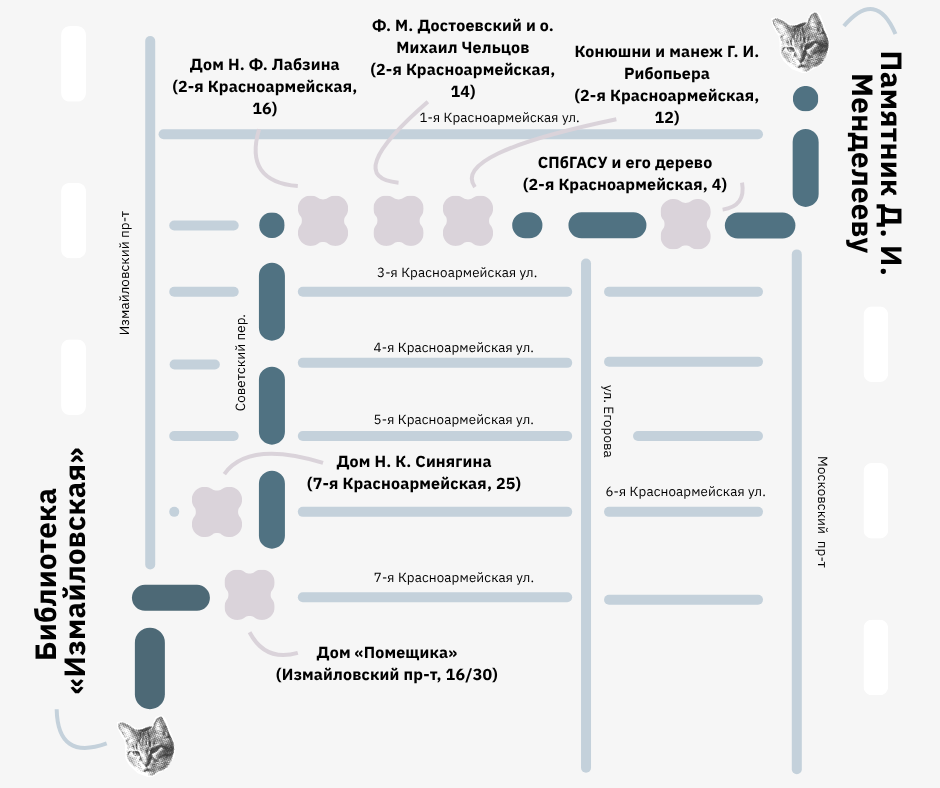
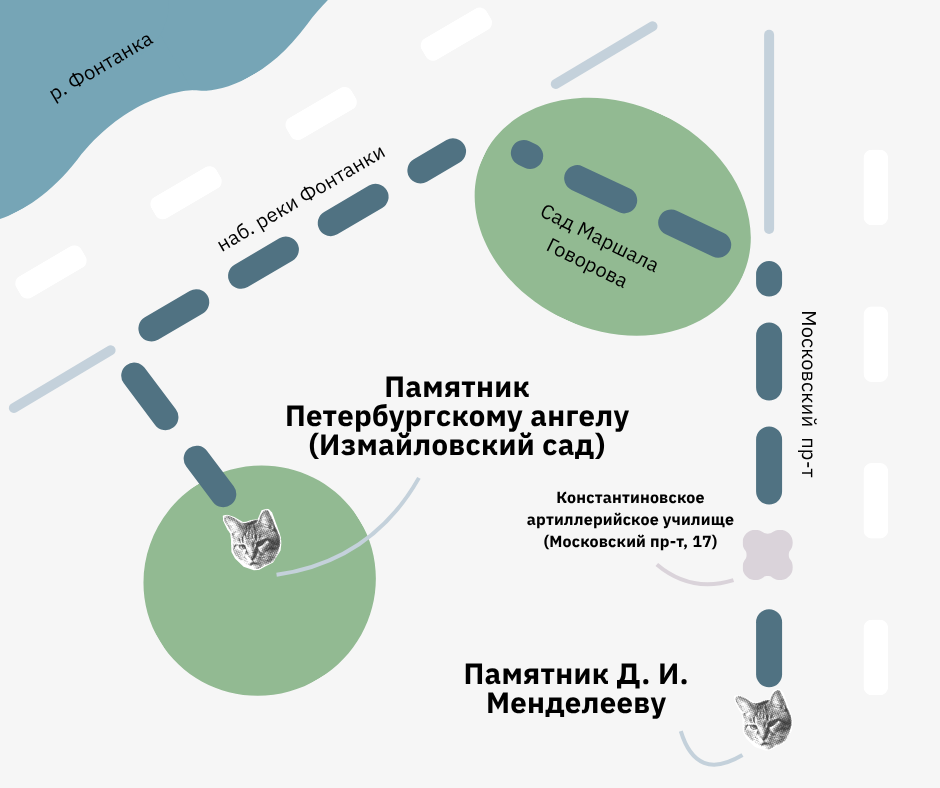
ещё правки

diff --git a/frontend/sound-novel-web/src/content/placeMaterials.ts b/frontend/sound-novel-web/src/content/placeMaterials.ts
@@ -234,6 +234,21 @@ export const placeMaterials: Record<string, PlaceMaterial> = {
     text: `Средняя Подьяческая улица и окрестности канала Грибоедова в Санкт-Петербурге славятся мистическими легендами, связанными с героями Достоевского. Чаще всего в связи с ней упоминается призрак старухи-процентщицы из романа «Преступление и наказание», обитающий в доме ее убийства (предположительно — наб. канала Грибоедова, 104).`,
   },
 
+  rimsky_korsakov_3: {
+    id: 'rimsky_korsakov_3',
+    title: 'Еще один достоевский адрес (пр-т Римского-Корсакова, 3)',
+    imageUrl: assets.photos.dostoevskayaAnna,
+    caption: 'А. Г. Достоевская с детьми — Фёдором и Любой',
+    captionSource: 'Фотография И. Грюнберга. Санкт-Петербург, 1883 год',
+    text: `По возвращении из-за границы в 1871 году Достоевские сняли меблированные комнаты в доме по проспекту Римского-Корсакова (в то время Екатерингофскому проспекту), 3. Там родился их старший сын Фёдор.
+
+Анна Григорьевна пишет об этом в своих воспоминаниях: «Мы заняли две меблированные комнаты в третьем этаже дома №3 по Екатерингофскому проспекту. Выбрали эту местность с тою целью, чтобы наша девочка жаркие июльские и августовские дни могла проводить в Юсуповом саду, который находится поблизости…
+
+Через восемь дней по приезде в Петербург, 16 июля, рано утром, родился наш старший сын Фёдор. Я почувствовала себя дурно накануне. Фёдор Михайлович, весь день и всю ночь молившийся о благополучном исходе, сказал мне потом, что решил, если родится сын, хотя бы за десять минут до полуночи, назвать его Владимиром, именем святого равноапостольного князя Владимира, память которого празднуется 15 июля. Но младенец родился 16-го и был наречен Фёдором, в честь своего отца, как мы давно это решили. Фёдор Михайлович был страшно счастлив и тем, что родился мальчик, и тем, что столь беспокоившее его семейное „событие” благополучно совершилось.
+
+Когда я стала поправляться, окрестили нашего мальчика. Воспреемником его (как и наших двух дочерей) был друг Фёдора Михайловича, известный поэт Аполлон Николаевич Майков. А крестною матерью Фёдор Михайлович выбрал свою дочь Любочку, которой не было еще двух лет».`,
+  },
+
   brinko: {
     id: 'brinko',
     title: 'Переулок Бринько / Сенная площадь',
@@ -310,6 +325,8 @@ export const placeMaterials: Record<string, PlaceMaterial> = {
 
 Дом этот, однако, связан не только с именем Достоевского, но и с именем протоиерея Троице-Измайловского собора Михаила Павловича Чельцова, переехавшего в Петербург в 1898 году.
 
+{{image:cheltsov}}
+
 Увы, судьба Чельцова сложилась печально. Смерть его связана с Екатериной Константиновной Зарнекау, внебрачной дочерью принца Константина Ольденбургского и единственной остававшейся в послереволюционной России представительницей дома Романовых. Зарнекау активно помогала «бывшим» — зажиточным людям и дворянам, разоренным революционерами, собирала вокруг себя недовольных новым режимом и активно помогала гонимой русской православной церкви. Дважды ее арестовывали — в 1920-м и 1927-м — и дважды ей удавалось вернуться живой. В это же время в своей квартире на 12-й Красноармейской, 34, она регулярно устраивала спиритические и гипнотические сеансы.
 
 Родственники, уехавшие за границу, умоляли Зарнекау покинуть Россию, и в 1929 году она наконец решилась это сделать. Вместе с дочерью Екатерина Константиновна отправилась на Кавказ и там тайно пересекла границу, уехав в Париж. Позже во французской печати были опубликованы рассказы Зарнекау о подготовке ее побега, о помогавших ей людях и тех, с кем она общалась, пребывая в России. Имена этих людей попали в руки ОГПУ — в 1930-м 40 человек были арестованы по сфабрикованному делу о «раскрытии военно-монархического заговора, руководимого белой эмиграцией». В их числе был и отец Михаил Чельцов.
@@ -319,6 +336,7 @@ export const placeMaterials: Record<string, PlaceMaterial> = {
 После шестого и последнего ареста Чельцов был расстрелян в Рождественский день 7 января 1931 года. Реабилитирован посмертно в 1988 году, в 2005-м был причислен к лику святых как Михаил Петроградский. 24 апреля 2016 года на доме по 2-й Красноармейской, 14, появилась табличка с последним адресом Михаила Павловича Чельцова.`,
     extraImages: [
       {
+        id: 'cheltsov',
         imageUrl: assets.photos.cheltsov,
         caption: 'Протоиерей Михаил Чельцов',
         captionSource: 'Автор неизвестен. До 1917 года // «Вода живая». Журнал о православном Петербурге',
@@ -369,7 +387,7 @@ export const placeMaterials: Record<string, PlaceMaterial> = {
 
 Вот с тех пор у ЛИСИ, а теперь уже СПбГАСУ, появилось свое чудесное дерево, которое так хорошо прижилось, разрослось и стало именно таким, каким я его себе и представлял».
 
-(Источник: Юлиана Коваль. ПУСТЬ ШЕЛЕСТИТ ЖИВАЯ ПАМЯТЬ… Архитектор и педагог Г. И. Лоханов и его дерево // Мастер’Oк. 2016. №1 (14). С. 46–47.)`,
+*(Источник: Юлиана Коваль. ПУСТЬ ШЕЛЕСТИТ ЖИВАЯ ПАМЯТЬ… Архитектор и педагог Г. И. Лоханов и его дерево // Мастер’Oк. 2016. №1 (14). С. 46–47.)*`,
   },
 
   konstantinovsky: {

diff --git a/frontend/sound-novel-web/src/components/modals/PlaceModal.tsx b/frontend/sound-novel-web/src/components/modals/PlaceModal.tsx
@@ -60,7 +60,30 @@ function renderRichText(paragraph: string) {
   })
 }
 
-function TextParagraphs({ text }: { text: string }) {
+function ExtraImageBlock({
+  extra,
+}: {
+  extra: NonNullable<PlaceMaterial['extraImages']>[number]
+}) {
+  return (
+    <div className={styles.extra}>
+      <img src={extra.imageUrl} alt="" className={styles.image} />
+      {extra.caption && <p className={styles.caption}>{extra.caption}</p>}
+      {extra.caption && extra.captionSource && <div className={styles.divider} />}
+      {extra.captionSource && <p className={styles.captionSource}>{extra.captionSource}</p>}
+    </div>
+  )
+}
+
+function TextParagraphs({
+  text,
+  extras = [],
+}: {
+  text: string
+  extras?: NonNullable<PlaceMaterial['extraImages']>
+}) {
+  const extrasById = new Map(extras.filter((extra) => extra.id).map((extra) => [extra.id!, extra]))
+
   return (
     <>
       {text
@@ -68,6 +91,15 @@ function TextParagraphs({ text }: { text: string }) {
         .map((paragraph) => paragraph.trim())
         .filter(Boolean)
         .map((paragraph) => {
+          const imageMatch = paragraph.match(/^\{\{image:([^}]+)\}\}$/)
+          if (imageMatch) {
+            const extra = extrasById.get(imageMatch[1])
+            if (!extra) {
+              return null
+            }
+            return <ExtraImageBlock key={`image-${imageMatch[1]}`} extra={extra} />
+          }
+
           const italicBlock = paragraph.match(/^\*([\s\S]*)\*$/)
           if (italicBlock && !italicBlock[1].includes('*')) {
             const lines = italicBlock[1]
@@ -99,10 +131,16 @@ function TextParagraphs({ text }: { text: string }) {
 function TextSection({ material }: { material: PlaceMaterial }) {
   const [textOpen, setTextOpen] = useState(false)
   const hasText = Boolean(material.text || material.dates)
-  const hasExtras = Boolean(material.extraImages?.length)
+  const extras = material.extraImages ?? []
+  const hasExtras = extras.length > 0
   if (!hasText && !hasExtras) {
     return null
   }
+
+  const referencedIds = new Set(
+    [...(material.text?.matchAll(/\{\{image:([^}]+)\}\}/g) ?? [])].map((match) => match[1]),
+  )
+  const trailingExtras = extras.filter((extra) => !extra.id || !referencedIds.has(extra.id))
 
   return (
     <>
@@ -121,14 +159,9 @@ function TextSection({ material }: { material: PlaceMaterial }) {
               ))}
             </p>
           )}
-          {material.text && <TextParagraphs text={material.text} />}
-          {material.extraImages?.map((extra) => (
-            <div key={extra.imageUrl} className={styles.extra}>
-              <img src={extra.imageUrl} alt="" className={styles.image} />
-              {extra.caption && <p className={styles.caption}>{extra.caption}</p>}
-              {extra.caption && extra.captionSource && <div className={styles.divider} />}
-              {extra.captionSource && <p className={styles.captionSource}>{extra.captionSource}</p>}
-            </div>
+          {material.text && <TextParagraphs text={material.text} extras={extras} />}
+          {trailingExtras.map((extra) => (
+            <ExtraImageBlock key={extra.id ?? extra.imageUrl} extra={extra} />
           ))}
         </div>
       )}

diff --git a/frontend/sound-novel-web/src/content/tour.ts b/frontend/sound-novel-web/src/content/tour.ts
@@ -302,7 +302,7 @@ export const tourSteps: TourStep[] = [
     ].join('\n\n'),
     secondaryAction: {
       label: listenHistoryAction.label,
-      materialIds: ['srednyaya_podyacheskaya', 'griboedov_embankment'],
+      materialIds: ['srednyaya_podyacheskaya', 'rimsky_korsakov_3', 'griboedov_embankment'],
     },
   },
   {

diff --git a/frontend/sound-novel-web/src/content/assets.ts b/frontend/sound-novel-web/src/content/assets.ts
@@ -87,5 +87,6 @@ export const assets = {
     ribopyer: assetUrl('assets/photos/ribopyer.png'),
     spbgasuTree: assetUrl('assets/photos/spbgasu-tree.jpg'),
     konstantinovsky: assetUrl('assets/photos/konstantinovsky.jpg'),
+    dostoevskayaAnna: assetUrl('assets/photos/dostoevskaya-anna.jpg'),
   },
 } as const

diff --git a/frontend/sound-novel-web/src/index.css b/frontend/sound-novel-web/src/index.css
@@ -1,4 +1,4 @@
-@import url('https://fonts.googleapis.com/css2?family=IBM+Plex+Sans:wght@400;700&display=swap');
+@import url('https://fonts.googleapis.com/css2?family=IBM+Plex+Sans:ital,wght@0,400;0,700;1,400;1,700&display=swap');
 @import url('./pwa.css');
 
 :root {

diff --git a/frontend/sound-novel-web/src/content/types.ts b/frontend/sound-novel-web/src/content/types.ts
@@ -19,6 +19,7 @@ export interface PlaceMaterial {
   hideTitle?: boolean
   imageObjectPosition?: string
   extraImages?: Array<{
+    id?: string
     imageUrl: string
     caption?: string
     captionSource?: string

diff --git a/frontend/sound-novel-web/src/components/steps/RouteStepPage.module.css b/frontend/sound-novel-web/src/components/steps/RouteStepPage.module.css
@@ -143,7 +143,7 @@
 .finaleCat {
   position: absolute;
   right: 4px;
-  bottom: 40px;
+  bottom: 58px;
   z-index: 2;
   width: min(42%, 138px);
   height: auto;
